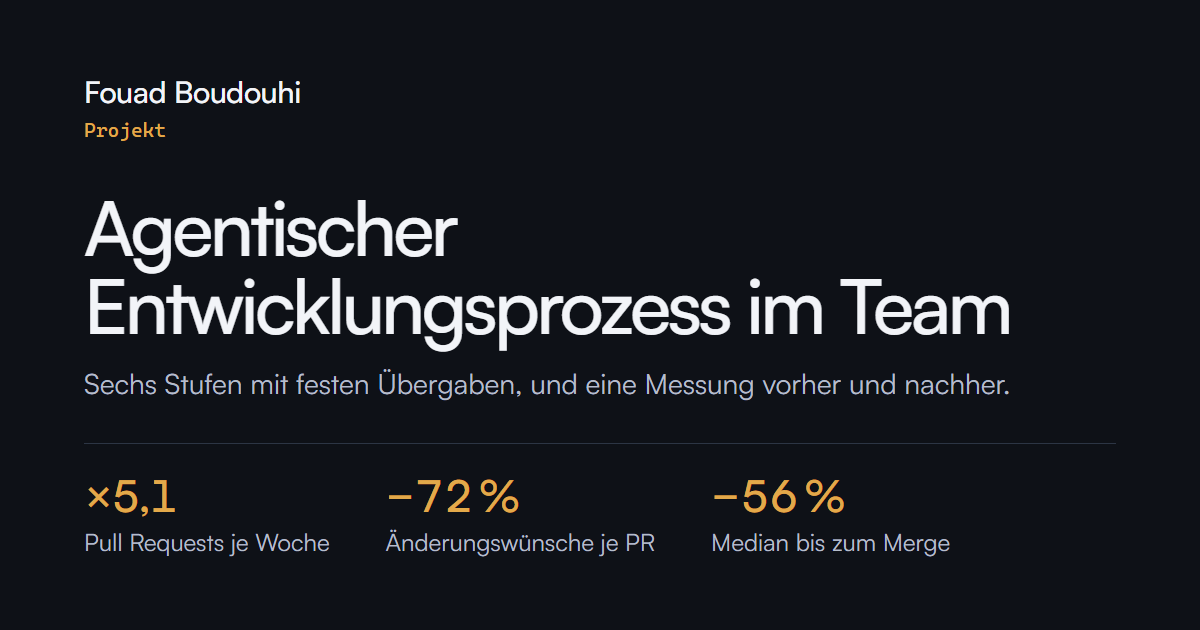
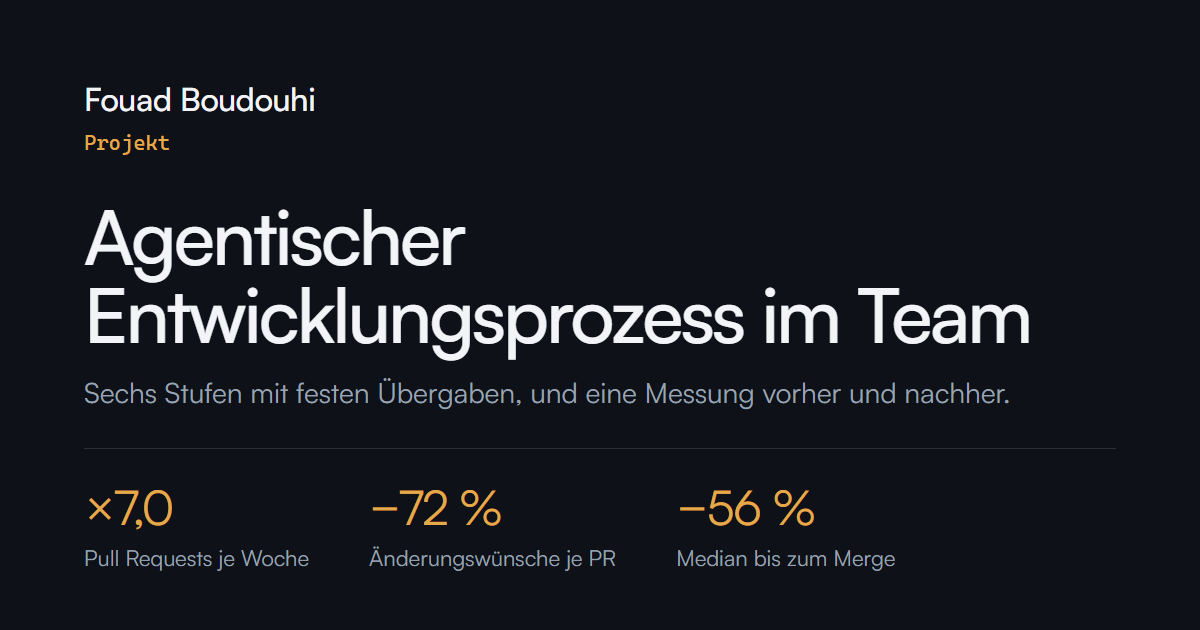
Prozess-Messung: Zeitraeume aus den Merge-Daten, Faktor 7,0 statt 5,1
Aus GitHub nachgerechnet: Diagramm und Zaehlung sind die gemergten Pull
Requests der vier Entwickler (721 + 407). Der Umstieg war Freitag, 25.09.2026,
nachmittags. Vorher 31.03. bis 25.09. = 25,5 Wochen (28,3 je Woche), nachher
bis 09.10. = 2,05 Wochen (198 je Woche). Die alten Nenner 27 und 3 Wochen
hatten keine Grundlage; Kopfzeile, Text, Tabelle, Bildunterschriften,
Startseitenkarte und Vorschaubild tragen jetzt die passenden Werte.

diff --git a/agentische-entwicklung.html b/agentische-entwicklung.html
@@ -14,7 +14,7 @@
 <meta property="og:site_name" content="Fouad Boudouhi">
 <meta property="og:locale" content="de_DE">
 <meta property="og:title" content="Agentischer Entwicklungsprozess im Team — Fouad Boudouhi">
-<meta property="og:description" content="Sechs Stufen mit festen Übergaben, Agenten in getrennten Rollen, Freigabe und Merge durch Menschen. Vorher und nachher gemessen: ×5,1 Pull Requests je Woche.">
+<meta property="og:description" content="Sechs Stufen mit festen Übergaben, Agenten in getrennten Rollen, Freigabe und Merge durch Menschen. Vorher und nachher gemessen: ×7,0 Pull Requests je Woche.">
 <meta property="og:image" content="https://fouad-boudouhi.de/assets/og/agentische-entwicklung.png">
 <meta property="og:image:width" content="1200">
 <meta property="og:image:height" content="630">
@@ -72,7 +72,7 @@
     </div>
     <div>
       <dt><span lang="de">Zeitraum</span><span lang="en">Period</span></dt>
-      <dd><span lang="de">KW 14 bis 41, 2026</span><span lang="en">calendar weeks 14 to 41, 2026</span></dd>
+      <dd><span lang="de">31.03. bis 09.10.2026</span><span lang="en">31 March to 9 October 2026</span></dd>
     </div>
     <div>
       <dt><span lang="de">Datenquelle</span><span lang="en">Data source</span></dt>
@@ -80,7 +80,7 @@
     </div>
     <div>
       <dt><span lang="de">Ergebnis</span><span lang="en">Result</span></dt>
-      <dd><span lang="de">×5,1 Pull Requests je Woche</span><span lang="en">×5.1 pull requests per week</span></dd>
+      <dd><span lang="de">×7,0 Pull Requests je Woche</span><span lang="en">×7.0 pull requests per week</span></dd>
     </div>
   </dl>
 
@@ -107,11 +107,11 @@
   <div class="prose" lang="en"><p>The agents work in separate roles for planning, implementation and review, with defined handovers in between. A human is in the loop at two points: someone on the team approves risky changes, and nothing is merged without a human review. A dedicated security check runs before sign-off. I wrote the rules down and onboarded the team.</p></div>
 
   <h2 class="abschnitt"><span lang="de">Die Messung</span><span lang="en">The measurement</span></h2>
-  <div class="prose" lang="de"><p>Gemessen habe ich an den gemergten Pull Requests des Repositories, ausgelesen aus GitHub. Vorher sind 27 Wochen mit 721 Pull Requests, nachher drei Wochen mit 407. Die Kennzahlen sind in beiden Zeiträumen dieselben: Pull Requests je Woche, Zeit bis zum Merge, Änderungswünsche und Nachbesserungsrunden je Pull Request und die Größe der Änderungen.</p></div>
-  <div class="prose" lang="en"><p>I measured on the repository's merged pull requests, pulled from GitHub: 27 weeks and 721 pull requests before, three weeks and 407 after. The metrics are the same for both periods: pull requests per week, time to merge, change requests and rework rounds per pull request, and the size of the changes.</p></div>
+  <div class="prose" lang="de"><p>Gemessen habe ich an den gemergten Pull Requests des Repositories, ausgelesen aus GitHub. Vorher sind das gut 25 Wochen mit 721 Pull Requests, vom Anlegen des Repositories am 31. März bis zum Umstieg am Freitag, dem 25. September; nachher zwei Wochen mit 407, bis zum 9. Oktober. Die Kennzahlen sind in beiden Zeiträumen dieselben: Pull Requests je Woche, Zeit bis zum Merge, Änderungswünsche und Nachbesserungsrunden je Pull Request und die Größe der Änderungen.</p></div>
+  <div class="prose" lang="en"><p>I measured on the repository's merged pull requests, pulled from GitHub: a good 25 weeks and 721 pull requests before, from the creation of the repository on 31 March to the switch on Friday 25 September; two weeks and 407 after, up to 9 October. The metrics are the same for both periods: pull requests per week, time to merge, change requests and rework rounds per pull request, and the size of the changes.</p></div>
 
   <div class="zahlen">
-    <div class="zahl auf"><span class="w" data-ziel="5.1" data-nk="1" data-pre="×"></span><span class="b"><span lang="de">Pull Requests je Woche</span><span lang="en">Pull requests per week</span></span></div>
+    <div class="zahl auf"><span class="w" data-ziel="7.0" data-nk="1" data-pre="×"></span><span class="b"><span lang="de">Pull Requests je Woche</span><span lang="en">Pull requests per week</span></span></div>
     <div class="zahl auf"><span class="w" data-ziel="72" data-nk="0" data-pre="−" data-suf="%"></span><span class="b"><span lang="de">Änderungswünsche je Pull Request</span><span lang="en">Change requests per pull request</span></span></div>
     <div class="zahl auf"><span class="w" data-ziel="56" data-nk="0" data-pre="−" data-suf="%"></span><span class="b"><span lang="de">Median bis zum Merge</span><span lang="en">Median time to merge</span></span></div>
     <div class="zahl auf"><span class="w" data-ziel="11" data-nk="0" data-pre="+" data-suf="%"></span><span class="b"><span lang="de">PR-Größe, Median (Gegenprobe)</span><span lang="en">PR size, median (counter-check)</span></span></div>
@@ -160,15 +160,15 @@
       <text class="achse" x="950" y="264" text-anchor="end">KW 41</text>
     </svg>
     <figcaption>
-      <span lang="de">Gemergte Pull Requests je Kalenderwoche aus GitHub, vier Entwickler, ein Repository, Stand 09.10.2026. Der Umstieg fiel in KW&nbsp;39; KW&nbsp;41 ist eine Teilwoche.</span>
-      <span lang="en">Merged pull requests per calendar week from GitHub, four developers, one repository, as of 09/10/2026. The switch happened in week&nbsp;39; week&nbsp;41 is a partial week.</span>
+      <span lang="de">Gemergte Pull Requests je Kalenderwoche aus GitHub, vier Entwickler, ein Repository, Stand 09.10.2026. Der Umstieg war am Freitag der KW&nbsp;39 (25.09.); KW&nbsp;41 ist eine Teilwoche.</span>
+      <span lang="en">Merged pull requests per calendar week from GitHub, four developers, one repository, as of 09/10/2026. The switch was on the Friday of week&nbsp;39 (25 September); week&nbsp;41 is a partial week.</span>
     </figcaption>
   </figure>
 
   <details class="alle auf">
     <summary><span lang="de">Alle Kennzahlen</span><span lang="en">All figures</span></summary>
   <table class="tbl">
-    <caption><span lang="de">Vorher und nachher, gemessen am 09.10.2026 · 721 gemergte Pull Requests aus 27 Wochen gegen 407 aus 3 Wochen, vier Entwickler</span><span lang="en">Before and after, measured on 09/10/2026 · 721 merged pull requests across 27 weeks against 407 across 3 weeks, four developers</span></caption>
+    <caption><span lang="de">Vorher und nachher, gemessen am 09.10.2026 · 721 gemergte Pull Requests aus 25,5 Wochen gegen 407 aus 2 Wochen, vier Entwickler</span><span lang="en">Before and after, measured on 09/10/2026 · 721 merged pull requests across 25.5 weeks against 407 across 2 weeks, four developers</span></caption>
     <thead>
       <tr>
         <th><span lang="de">Gemessen</span><span lang="en">Measure</span></th>
@@ -177,7 +177,7 @@
       </tr>
     </thead>
     <tbody>
-      <tr><td><span lang="de">Pull Requests je Woche</span><span lang="en">Pull requests per week</span></td><td>26,7</td><td class="e">135,7</td></tr>
+      <tr><td><span lang="de">Pull Requests je Woche</span><span lang="en">Pull requests per week</span></td><td>28,3</td><td class="e">198</td></tr>
       <tr><td><span lang="de">Median bis zum Merge</span><span lang="en">Median time to merge</span></td><td>1,8 h</td><td class="e">0,8 h</td></tr>
       <tr><td><span lang="de">Änderungswünsche je PR</span><span lang="en">Change requests per PR</span></td><td>0,43</td><td class="e">0,12</td></tr>
       <tr><td><span lang="de">Nachbesserungsrunden je PR</span><span lang="en">Rework rounds per PR</span></td><td>0,81</td><td class="e">0,40</td></tr>
@@ -186,12 +186,12 @@
   </table>
   </details>
 
-  <div class="prose" lang="de"><p>Der Durchsatz hat sich verfünffacht, und die Pull Requests brauchen weniger Korrekturen: 72 % weniger Änderungswünsche und halb so viele Nachbesserungsrunden je Pull Request. Die Gegenprobe ist die Größe der Änderungen. Sie liegt mit 578 Zeilen im Median leicht über den 522 von vorher. Der Durchsatz kommt also nicht daher, dass die Arbeit in mehr Stücke geschnitten wurde.</p></div>
-  <div class="prose" lang="en"><p>Throughput went up fivefold, and the pull requests need fewer corrections: 72 % fewer change requests and half the rework rounds per pull request. The counter-check is the size of the changes: a median of 578 lines, slightly above the 522 before. So the throughput did not come from slicing the work into smaller pieces.</p></div>
+  <div class="prose" lang="de"><p>Der Durchsatz hat sich versiebenfacht, und die Pull Requests brauchen weniger Korrekturen: 72 % weniger Änderungswünsche und halb so viele Nachbesserungsrunden je Pull Request. Die Gegenprobe ist die Größe der Änderungen. Sie liegt mit 578 Zeilen im Median leicht über den 522 von vorher. Der Durchsatz kommt also nicht daher, dass die Arbeit in mehr Stücke geschnitten wurde.</p></div>
+  <div class="prose" lang="en"><p>Throughput went up sevenfold, and the pull requests need fewer corrections: 72 % fewer change requests and half the rework rounds per pull request. The counter-check is the size of the changes: a median of 578 lines, slightly above the 522 before. So the throughput did not come from slicing the work into smaller pieces.</p></div>
 
   <h2 class="abschnitt"><span lang="de">Was die Zahlen nicht sagen</span><span lang="en">What the figures do not say</span></h2>
-  <div class="prose" lang="de"><p>Drei Wochen gegen 27 bleiben eine dünne Vergleichsbasis. In die drei Wochen fiel außerdem ein großes Vorhaben, das einen Teil des Sprungs erklären kann. Die Zahlen hier sind der Stand vom 09.10.2026.</p></div>
-  <div class="prose" lang="en"><p>Three weeks against 27 is still a thin baseline. A large piece of work also fell into those three weeks, which may explain part of the jump. The figures here are as of 9 October 2026.</p></div>
+  <div class="prose" lang="de"><p>Zwei Wochen gegen 25 bleiben eine dünne Vergleichsbasis. In die zwei Wochen fiel außerdem ein großes Vorhaben, das einen Teil des Sprungs erklären kann. Die Zahlen hier sind der Stand vom 09.10.2026.</p></div>
+  <div class="prose" lang="en"><p>Two weeks against 25 is still a thin baseline. A large piece of work also fell into those two weeks, which may explain part of the jump. The figures here are as of 9 October 2026.</p></div>
 
 </main>
 

diff --git a/index.html b/index.html
@@ -380,8 +380,8 @@
         <a class="projekt__bild" href="agentische-entwicklung.html" tabindex="-1" aria-hidden="true"><img src="assets/thumbs/agentische-entwicklung.webp" width="720" height="480" alt="" loading="lazy" decoding="async"></a>
         <div class="projekt__text">
         <h3><span lang="de">Agentischer Entwicklungsprozess im Team</span><span lang="en">An agentic development process for the team</span></h3>
-        <p lang="de">Bei SPIRIT-TESTING, Herbst 2026. Sechs Stufen vom Ticket bis zur Abnahme, Agenten in getrennten Rollen, Freigabe und Merge durch Menschen. Vorher und nachher mit denselben Kennzahlen gemessen: 5,1-mal so viele Pull Requests je Woche, 72 % weniger Änderungswünsche je Pull Request, bei etwa gleicher Größe der Änderungen.</p>
-        <p lang="en">At SPIRIT-TESTING, autumn 2026. Six stages from ticket to sign-off, agents in separate roles, human approval and merge. Measured before and after with the same figures: 5.1 times as many pull requests per week, 72 % fewer change requests per pull request, with the size of the pull requests roughly unchanged.</p>
+        <p lang="de">Bei SPIRIT-TESTING, Herbst 2026. Sechs Stufen vom Ticket bis zur Abnahme, Agenten in getrennten Rollen, Freigabe und Merge durch Menschen. Vorher und nachher mit denselben Kennzahlen gemessen: siebenmal so viele Pull Requests je Woche, 72 % weniger Änderungswünsche je Pull Request, bei etwa gleicher Größe der Änderungen.</p>
+        <p lang="en">At SPIRIT-TESTING, autumn 2026. Six stages from ticket to sign-off, agents in separate roles, human approval and merge. Measured before and after with the same figures: seven times as many pull requests per week, 72 % fewer change requests per pull request, with the size of the pull requests roughly unchanged.</p>
         <ul class="tags"><li><span lang="de">KI-Agenten</span><span lang="en">AI agents</span></li><li>GitHub API</li><li><span lang="de">Kennzahlen</span><span lang="en">Metrics</span></li></ul>
         <p class="projekt__link"><a href="agentische-entwicklung.html"><span lang="de">Der Ablauf und die Zahlen</span><span lang="en">The process and the figures</span></a></p>
         </div>
